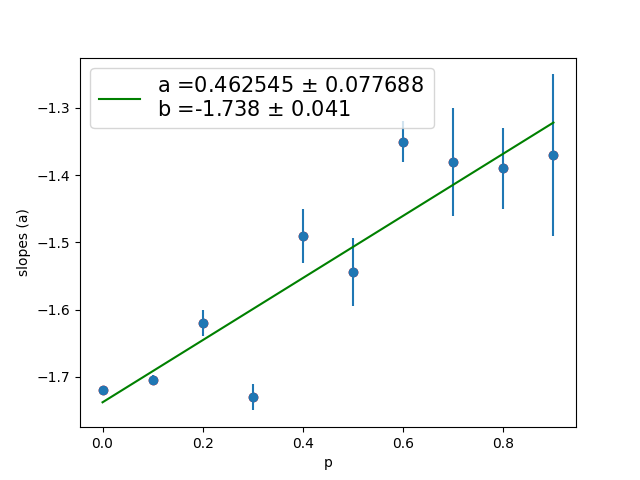
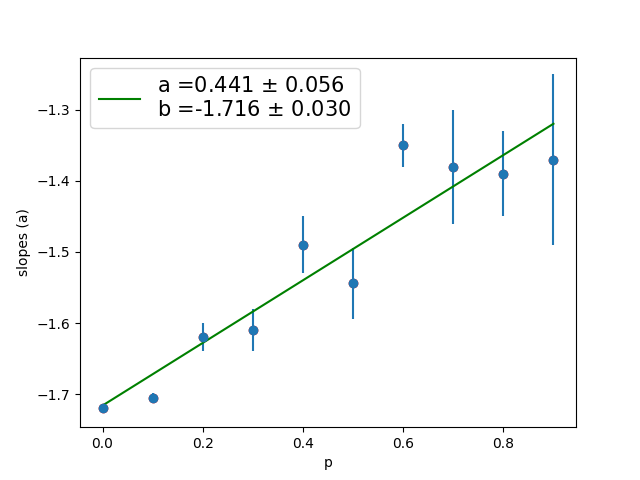
update

diff --git a/slopes.py b/slopes.py
@@ -20,11 +20,11 @@ x_p = np.arange(0,1,0.1)
 
 # slopes_Lg = [-1.755, -1.687, -1.698, -1.682,-1.682, -1.682, -1.701, -1.710 ]
 # slopes = [-1.723, -1.712, -1.709, -1.42, -1.21]
-s_p = [-1.719, -1.705,-1.62,-1.73 ,-1.49,-1.544,-1.35,-1.38,-1.39,-1.37]
+s_p = [-1.719, -1.705,-1.62,-1.61 ,-1.49,-1.544,-1.35,-1.38,-1.39,-1.37]
 
 # errory_Lg =  [0.005, 0.003, 0.004, 0.003,0.002, 0.003, 0.001, 0.004]
 # errory = [0.002, 0.003, 0.009, 0.06,0.06]
-errory_p = [0.004, 0.007, 0.02, 0.02, 0.04, 0.05, 0.03, 0.08, 0.06, 0.12]
+errory_p = [0.004, 0.007, 0.02, 0.03, 0.04, 0.05, 0.03, 0.08, 0.06, 0.12]
 
 
 def slope_graph(x,y, erry, save_path:str, x_label:str, y_lim:bool):
@@ -42,7 +42,7 @@ def slope_graph(x,y, erry, save_path:str, x_label:str, y_lim:bool):
     errb = np.sqrt(pcov[1,1])        #erro do coeficiente linear
 
     plt.scatter(x,slopes,color='red')
-    plt.plot(x,fit(x,a,b), color = "green", label = "a =%.6f $\pm$ %.6f \nb =%.3f $\pm$ %.3f" %(a,erra,b,errb))
+    plt.plot(x,fit(x,a,b), color = "green", label = "a =%.3f $\pm$ %.3f \nb =%.3f $\pm$ %.3f" %(a,erra,b,errb))
     plt.errorbar(x, slopes, yerr=errory, fmt="o")
     # if y_lim == True:
     #     plt.ylim(-1.9,-1.5)

diff --git a/sandpile.py b/sandpile.py
@@ -38,7 +38,7 @@ grao_final = 10000
 deslizamento = 0 
 
 #valor da constante p
-p = 0.3 
+p = 0.5 
 
 energia = np.zeros(grao_final+1)
 
